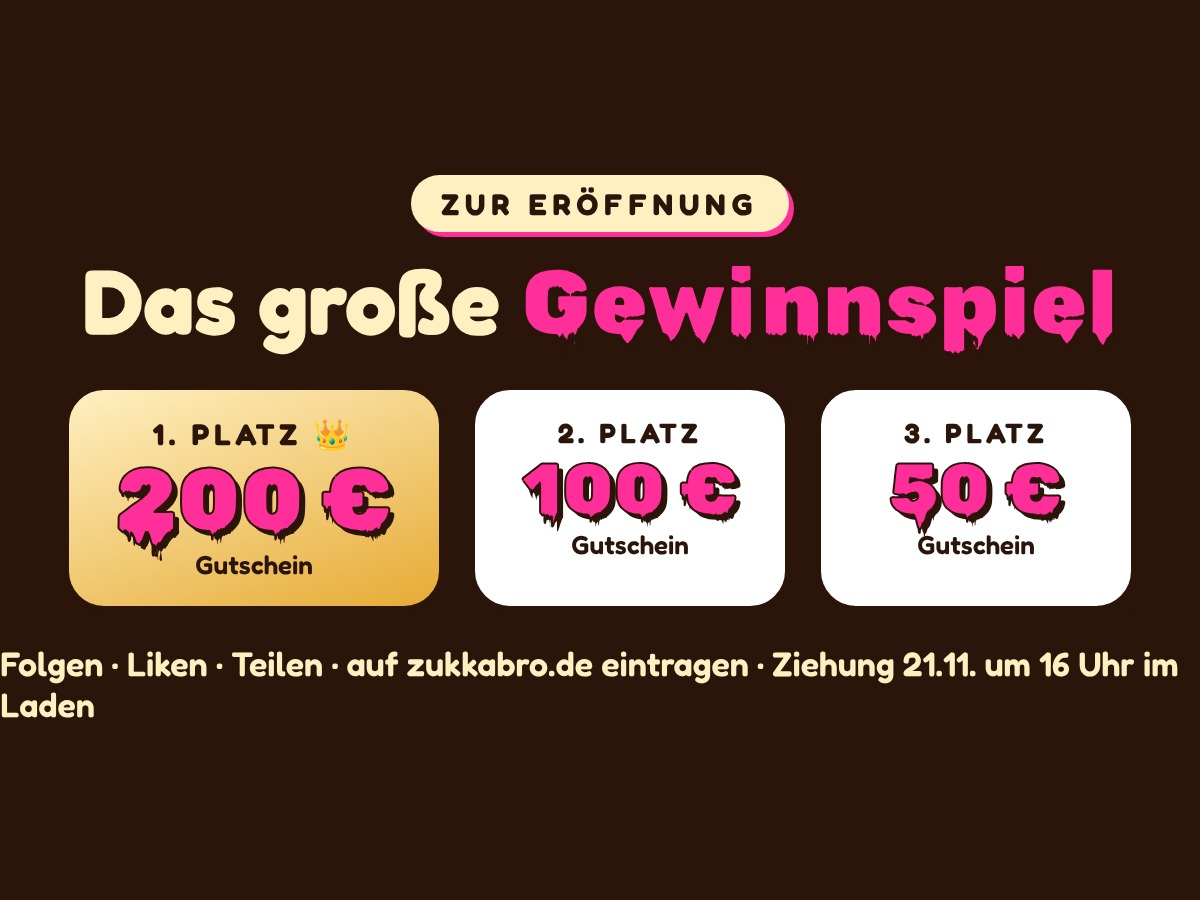
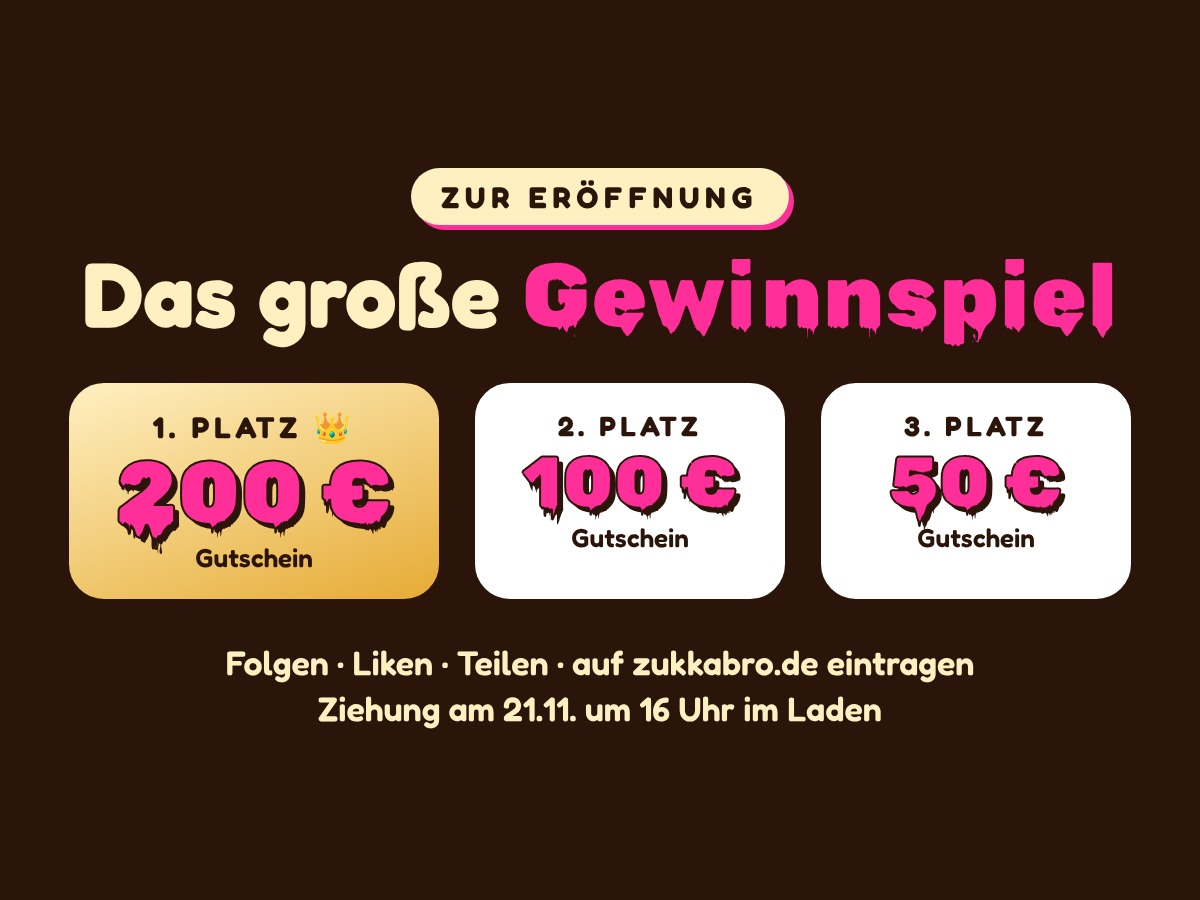
Google-Profil: Produktfotos und Gewinnspiel-Bild überarbeitet, Teilnahmeschluss korrigiert
Claude-Session: https://claude.ai/code/session_01WifcpgzEB5RbeboDwQZEAR

diff --git a/zukkabro/werbung/google-unternehmensprofil/PROFIL-TEXTE.md b/zukkabro/werbung/google-unternehmensprofil/PROFIL-TEXTE.md
@@ -88,7 +88,7 @@ Kommt vorbei, wir freuen uns auf euch!
 ### 2. Gewinnspiel
 - Typ: Neuigkeiten · Bild: `fotos/beitrag-gewinnspiel-1200x900.jpg` · Button: „Jetzt anmelden“ → https://zukkabro.de/#gewinnspiel
 ```
-Zur Eröffnung verlosen wir drei Gutscheine: 200 €, 100 € und 50 € zum Einlösen bei ZUKKABRO. So geht's: Folge uns auf Instagram, TikTok oder Facebook, like und teile den Gewinnspiel-Beitrag und trag dich auf zukkabro.de ein. Teilnahmeschluss ist der 21.11.2026 um 15 Uhr, die Ziehung findet um 16 Uhr live im Laden statt. Teilnahme ab 18, kein Kauf nötig. Teilnahmebedingungen auf zukkabro.de.
+Zur Eröffnung verlosen wir drei Gutscheine: 200 €, 100 € und 50 € zum Einlösen bei ZUKKABRO. So geht's: Folge uns auf Instagram, TikTok oder Facebook, like und teile den Gewinnspiel-Beitrag und trag dich auf zukkabro.de ein. Teilnahmeschluss ist Freitag, der 20.11.2026 um 23:59 Uhr, die Ziehung findet am Samstag, 21.11. um 16 Uhr live im Laden statt. Teilnahme ab 18, kein Kauf nötig. Teilnahmebedingungen auf zukkabro.de.
 ```
 
 ### 3. Matcha & Açaí
